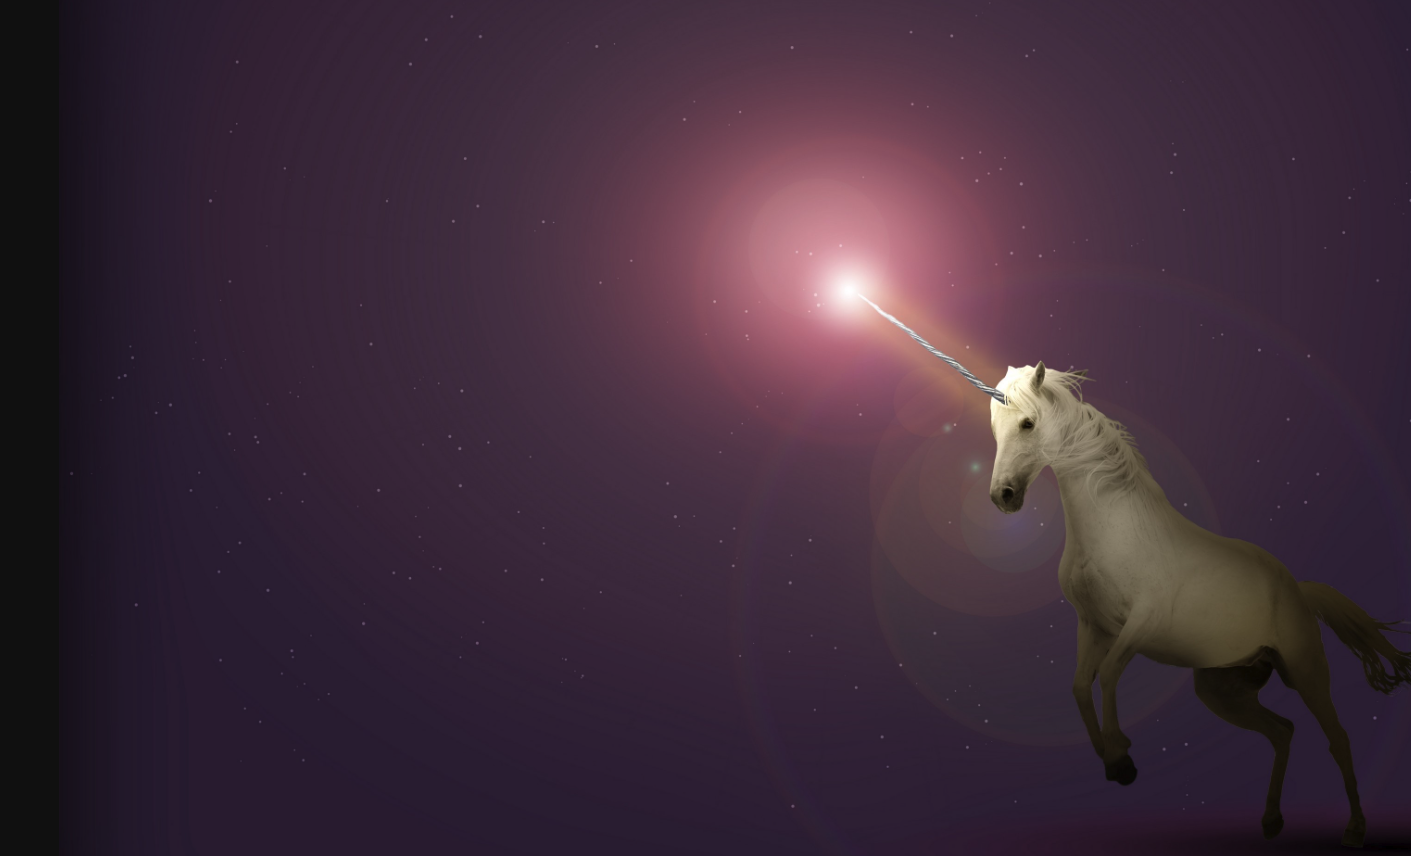
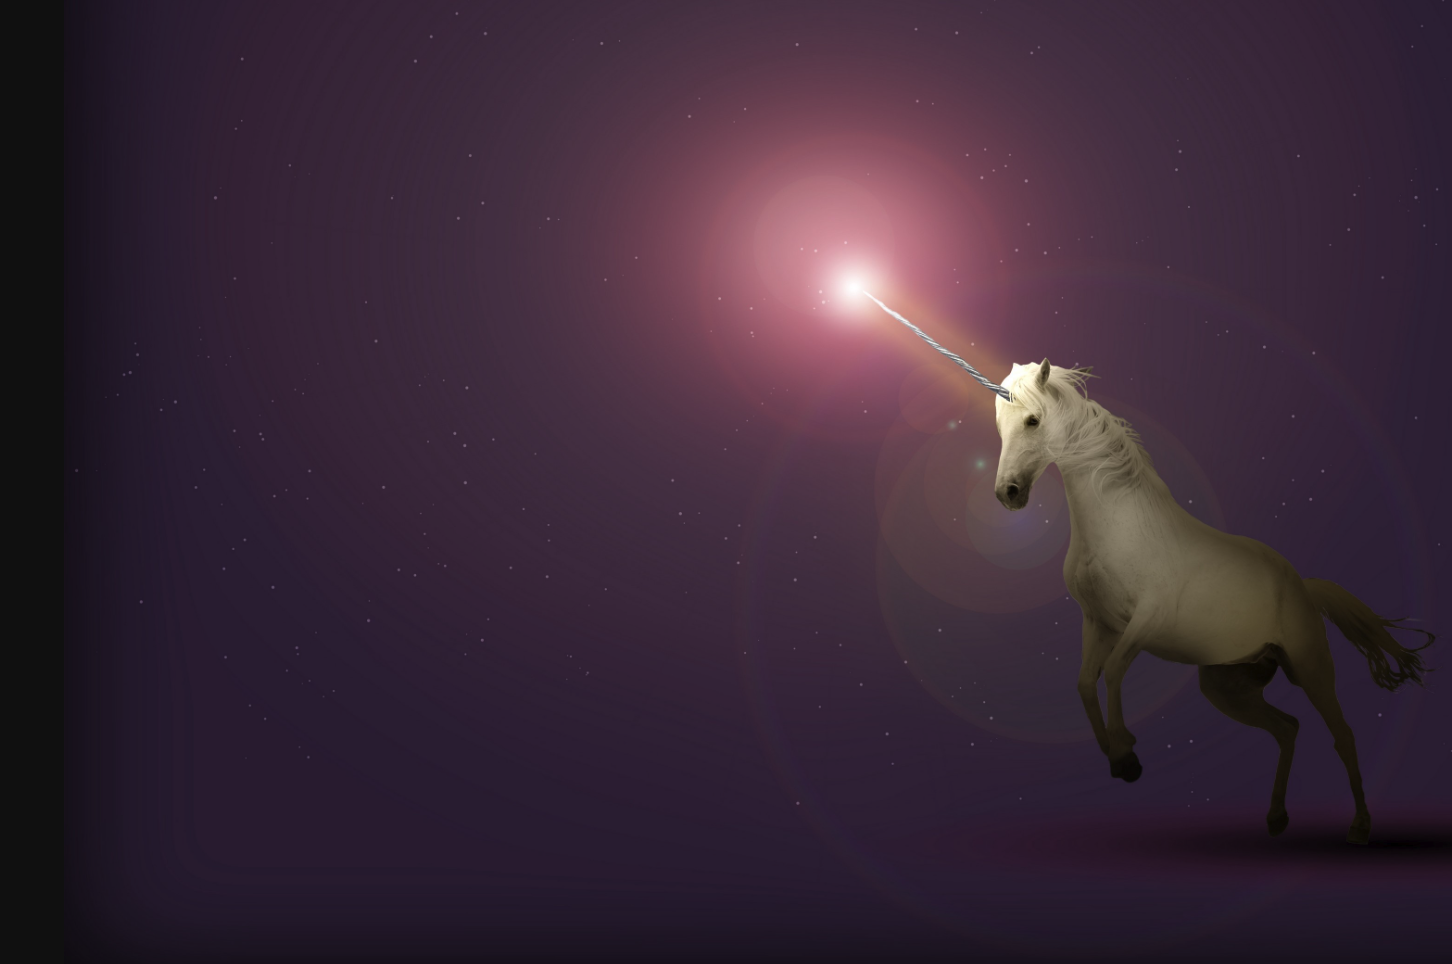
fixed gallery css, found examples refresh bug

Changed region(s): [[0.4989, 0.243, 1.0, 1.0], [0.4989, 0.1822, 0.5925, 0.243], [0.7796, 0.8808, 0.8108, 0.9112]]

diff --git a/gradio/block.py b/gradio/block.py
@@ -75,9 +75,13 @@ similar_css = """#similar {
                  h2 span { font-size:16px; }
                  h2 { margin: 0 !important; }
                  .gradio-container { background-image: url('file=figures/unicorn.png');
-                            background-size: contain;
-                            max-width: 65% !important;
+                                     background-size: contain;
+                                     max-width: 80% !important;
                         }
+                        
+                div#gallery_search > div:nth-child(3) {
+                                     min-height: 700px;
+                            }
          """
 # !important because overflow-y: scroll is being overwritten by parent container style of overflow: visible
 with gr.Blocks(css=similar_css) as demo:
@@ -211,7 +215,7 @@ with gr.Blocks(css=similar_css) as demo:
                     )
                 ],
             }
-            gallery = gr.Gallery(gallery_choices["caltech"]).style(grid=[5], height=400)
+            gallery = gr.Gallery(gallery_choices["caltech"],elem_id="gallery_search").style(grid=[4])
             collection.change(
                 lambda collection: gr.Dataset.update(
                     samples=dataset_choices[collection]
